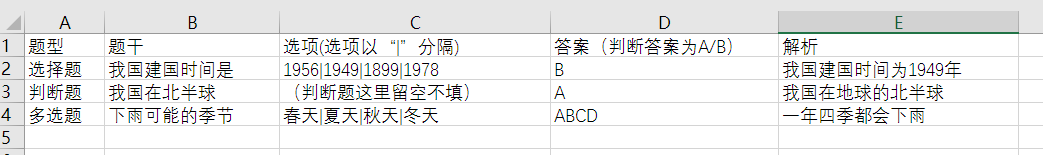
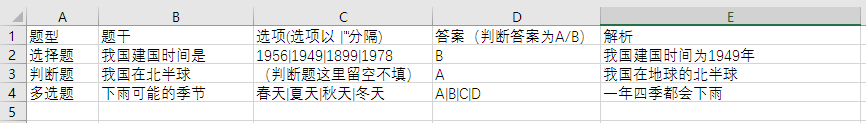
文件批量上传题目完成

Changed region(s): [[0.0, 0.0976, 1.0, 1.0], [0.6859, 0.3902, 0.9353, 0.5122], [0.4988, 0.3902, 0.5612, 0.5122]]

diff --git a/admin/themes/simplebootx/Exam/AdminQuestion/fileaddquestion.html b/admin/themes/simplebootx/Exam/AdminQuestion/fileaddquestion.html
@@ -10,7 +10,7 @@
         <ul class="nav nav-tabs">
             
         </ul>
-        <form action="__URL__/index" method="post" class="form-horizontal">
+        <form action="__URL__/uploadfile" method="post" class="form-horizontal" enctype="multipart/form-data">
                 <legend>从CSV导入</legend>
                 <div class="control-group">
                     <label for="username" class="control-label">示范格式</label>
@@ -21,23 +21,23 @@
                 <div class="control-group">
                     <label for="lesson_video" class="control-label">待导入文件</label>
                     <div class="controls">
-                        <span class="input-append">
+                        <!-- <span class="input-append">
                             <input type="text" name="uploadfile" id="uploadfile_value" class="inline uploadvideo" needle="needle" msg="必须先上传CSV文件" autocomplete="off">
                             <span id="uploadfile_percent" class="add-on">0.00%</span>
                         </span>
                         <span class="btn">
                             上传文件
                         </span>
-                        <span class="help-block">注意：导入文件必须为csv文件，可用excel另存为csv，为保证程序正常导入，每个CSV文件请不要超过2M，否则可能导入失败</span>
+                        <br> -->
+                        <input type="file" class="btn" name="file"  charset="utf-8" > 
+                        <a href="__ROOT__/public/Exam/试题模板.csv">点击下载试题模板</a>
+                        <span class="help-block">注意：导入文件必须为csv文件，可用excel另存为csv，为保证程序正常导入，每个CSV文件请不要超过2M，否则可能导入失败。请注意选项答案等有多个的以“|”分隔。</span>
                     </div>
                 </div>
                 <div class="control-group">
                     <div class="controls">
-                        <button class="btn btn-primary" type="submit" autocomplete="off">提交</button>
-                        <input type="hidden" name="page" value="" autocomplete="off">
-                        <input type="hidden" name="type" value="1" autocomplete="off">
-                        <input type="hidden" name="insertquestion" value="1" autocomplete="off">
-                                            </div>
+                        <button class="btn btn-primary" type="submit" autocomplete="off">导入</button>
+                    </div>
                 </div>
             </form>
     </div>

diff --git a/application/Exam/Controller/AdminQuestionController.class.php b/application/Exam/Controller/AdminQuestionController.class.php
@@ -65,6 +65,66 @@ class AdminQuestionController extends AdminbaseController {
 	function fileaddquestion(){
 		$this->display();
 	}
+	function uploadfile(){
+		$filename = $_FILES['file']['tmp_name']; 
+		$realname = $_FILES["file"]["name"];
+		// 获得文件扩展名
+		$temp_arr = explode(".", $realname);
+		$file_ext = array_pop($temp_arr);
+		$file_ext = trim($file_ext);
+		$file_ext = strtolower($file_ext); 
+		$filelocal = dirname(__FILE__) . '\..\..\..';
+		$new_file_name = date("YmdHis") . '_' . rand(10000, 99999) . '.' . $file_ext; 
+		$total = $filelocal . "\upload/" . $new_file_name;
+	    move_uploaded_file($_FILES["file"]["tmp_name"], $total);
+	    if (empty ($total)) {
+	        echo '请选择要导入的CSV文件！'; 
+	        exit; 
+	    } 
+	    $handle = fopen($total, 'r'); 
+	    $result = $this->input_csv($handle); //解析csv 
+	    $len_result = count($result); 
+	    if($len_result==0){ 
+	    	$this->error("没有任何数据！");
+	    } 
+	    for ($i = 1; $i < $len_result; $i++) { //循环获取各字段值 
+	    	$tmpi = $i + 2;
+	    	$type = $result[$i][0];
+	    	switch ($type) {
+	    		case '选择题':
+	    			$data[$i-1]["type"] = 1;
+	    			break;
+	    		case '多选题':
+	    			$data[$i-1]["type"] = 2;
+	    			break;
+	    		case '判断题':
+	    			$data[$i-1]["type"] = 3;
+	    			break;
+	    		default:
+			    	$this->error("第$tmp行题型输入错误");
+	    			break;
+	    	}
+	        $data[$i-1]["question"] = $result[$i][1];
+	        $data[$i-1]["answer"] = $result[$i][3];
+	        if ($data[$i-1]["question"] == "" || $data[$i-1]["answer"] == "") {
+			    	$this->error("第$tmp行题目不完整错误");
+	        }
+	        $data[$i-1]["describe"] = $result[$i][4];
+	        $data[$i-1]["time"] = time();
+	    	if ($type == "判断题") {
+		        $data[$i-1]["option"] = "";
+	    	}else{
+		        $data[$i-1]["option"] = $result[$i][2];
+	    	}
+	        $options = explode("|", $data[$i-1]["option"]);
+	        $data[$i-1]["number"] = count($options);
+	    } 
+	    	M("questions")->addAll($data);
+	    	$this->success("上传成功","index",0.5);
+
+	    // $data_values = substr($data_values,0,-1); //去掉最后一个逗号
+		return 0;
+	}
 	function ajaxAddquestion(){
 		$question = $_POST['question'];
 		$data["type"] = $question["type"];
@@ -138,4 +198,17 @@ class AdminQuestionController extends AdminbaseController {
 		}
 		$this->ajaxReturn($return);
 	}
+	function input_csv($handle) { 
+	    $out = array (); 
+	    $n = 0; 
+	    while ($data = fgetcsv($handle)) { 
+	    	$data = eval('return '.iconv('gbk','utf-8',var_export($data,true)).';');
+	        $num = count($data); 
+	        for ($i = 0; $i < $num; $i++) { 
+	            $out[$n][$i] = $data[$i]; 
+	        } 
+	        $n++; 
+	    } 
+	    return $out; 
+	} 
 }
